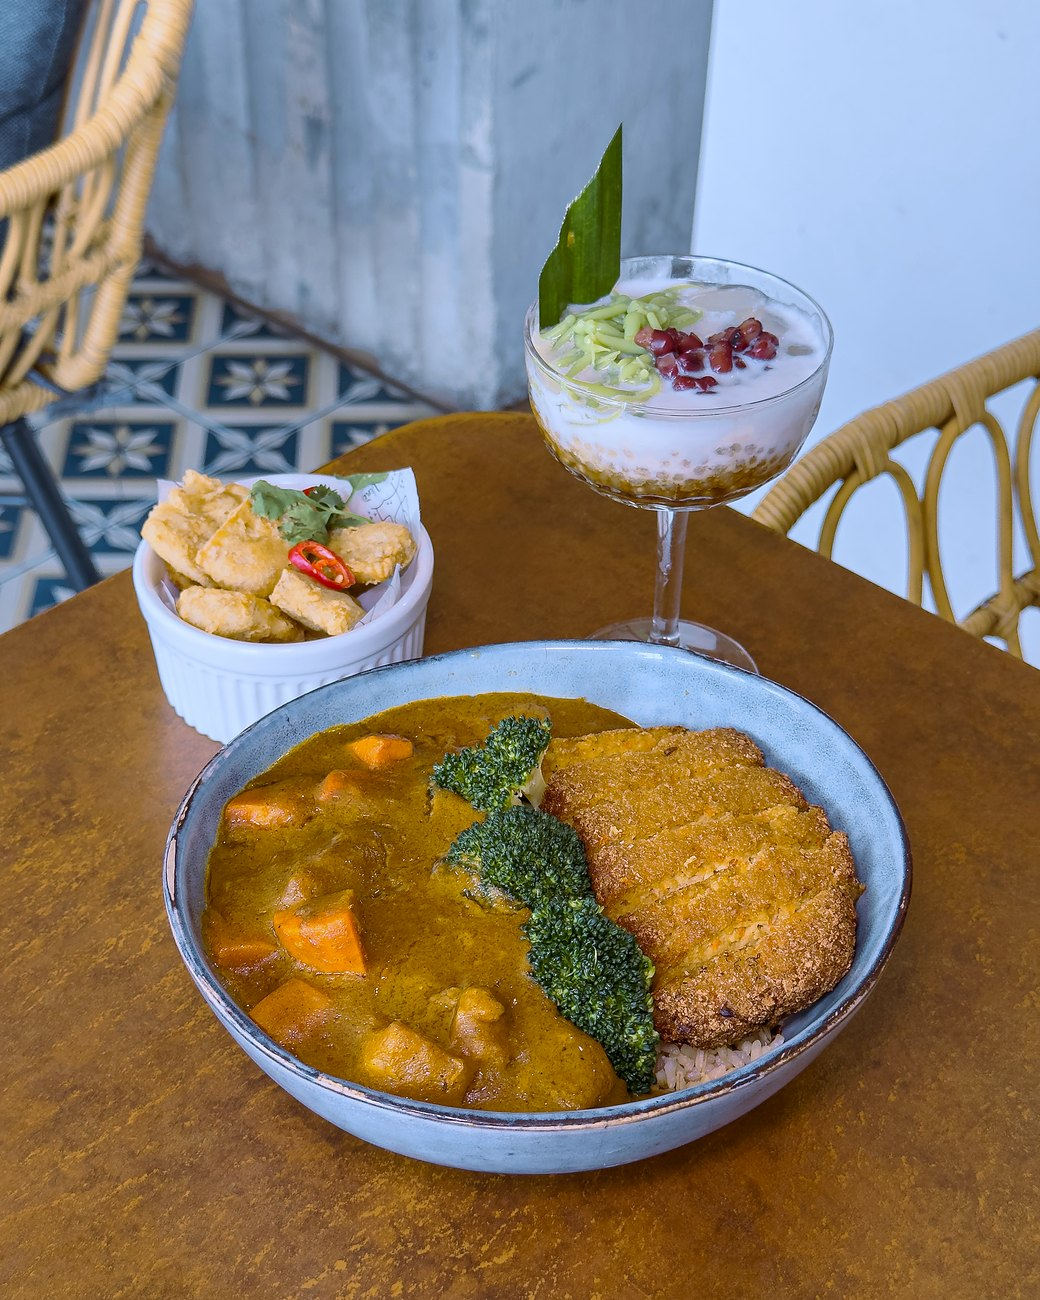
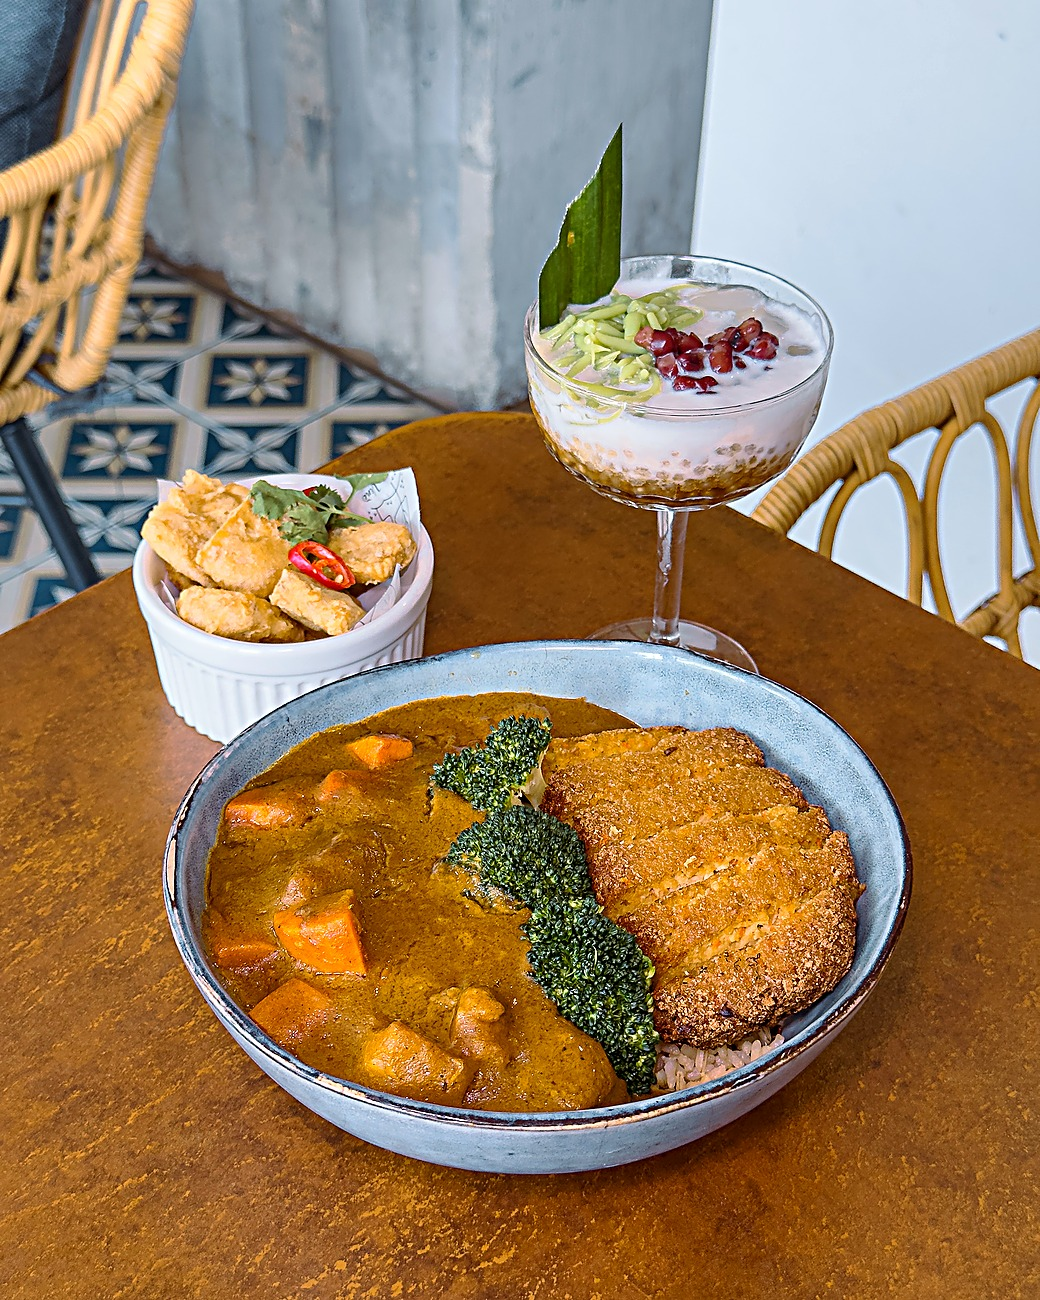
Hero: sharpened full-set Japanese Curry Tofu Katsu; caption fix

diff --git a/index.html b/index.html
@@ -38,7 +38,7 @@
     <p class="lead"><span data-i18n data-zh="本地风味与西式家常料理，道道素食。每天营业，早上 8:30 至晚上 9:30。" data-ms="Hidangan kegemaran tempatan dan makanan Barat yang menyelerakan, semuanya tanpa daging. Dibuka setiap hari, 8:30 pagi hingga 9:30 malam.">Local favourites and Western comfort food, all meat-free. Open daily, 8:30 AM to 9:30 PM.</span></p>
     <div class="ctas"><a class="btn" href="#menu"><span data-i18n data-zh="查看菜单" data-ms="Lihat menu">See the menu</span></a><a class="btn ghost" href="#visit"><span data-i18n data-zh="找到我们" data-ms="Cari kami">Find us</span></a><a class="btn wa" href="https://wa.me/60134144199?text=Hi%20Vine%2C%20I%27d%20like%20to%20make%20a%20reservation." target="_blank" rel="noopener"><svg class="wa-ic" viewBox="0 0 32 32" width="18" height="18" aria-hidden="true" focusable="false"><path fill="currentColor" d="M16 3C8.8 3 3 8.7 3 15.8c0 2.5.7 4.9 2 7L3 29l6.4-2c2 1.1 4.3 1.7 6.6 1.7 7.2 0 13-5.7 13-12.8S23.2 3 16 3zm0 23.4c-2.1 0-4.1-.6-5.9-1.7l-.4-.3-3.8 1.2 1.2-3.7-.3-.4c-1.2-1.8-1.8-3.9-1.8-6 0-5.9 4.9-10.6 10.9-10.6s10.9 4.8 10.9 10.6S22 26.4 16 26.4zm6-7.9c-.3-.2-1.9-1-2.2-1.1-.3-.1-.5-.2-.7.2-.2.3-.8 1-1 1.2-.2.2-.4.2-.7.1-.3-.2-1.4-.5-2.6-1.6-1-.9-1.6-1.9-1.8-2.2-.2-.3 0-.5.1-.7l.5-.6c.2-.2.2-.4.3-.6.1-.2.1-.4 0-.6l-1-2.4c-.3-.6-.5-.5-.7-.5h-.6c-.2 0-.6.1-.9.4-.3.3-1.1 1.1-1.1 2.7s1.2 3.1 1.3 3.3c.2.2 2.3 3.5 5.5 4.9.8.3 1.4.5 1.9.7.8.2 1.5.2 2.1.1.6-.1 1.9-.8 2.2-1.5.3-.7.3-1.4.2-1.5-.1-.2-.3-.3-.6-.4z"/></svg><span data-i18n data-zh="透过 WhatsApp 订位" data-ms="Tempah melalui WhatsApp">Reserve on WhatsApp</span></a></div>
   </div>
-  <div class="hero-img"><figure class="hero-fig"><picture><source media="(max-width:899px)" srcset="images/hero/hero_curry_katsu_mobile.jpg"><img src="images/hero_curry_katsu.jpg" fetchpriority="high" alt="Japanese Curry Brown Rice with Mushroom Katsu" width="1040" height="1300"></picture><figcaption><b data-i18n data-zh="日式咖喱炸菇排糙米饭" data-ms="Nasi Perang Kari Jepun dengan Katsu Cendawan">Japanese Curry Brown Rice with Mushroom Katsu</b><span class="cap-d" data-i18n data-zh="香脆炸菇排配日式咖喱、西兰花、马铃薯和胡萝卜，盖在糙米饭上。" data-ms="Katsu cendawan rangup dengan kari Jepun, brokoli, kentang dan lobak merah atas nasi perang.">Crispy mushroom katsu with Japanese curry, broccoli, potato and carrot over brown rice.</span></figcaption></figure></div>
+  <div class="hero-img"><figure class="hero-fig"><picture><source media="(max-width:899px)" srcset="images/hero/hero_curry_katsu_mobile.jpg"><img src="images/hero_curry_katsu.jpg" fetchpriority="high" alt="Japanese Curry Brown Rice with Tofu Katsu" width="1040" height="1300"></picture><figcaption><b data-i18n data-zh="日式咖喱炸豆腐排糙米饭" data-ms="Nasi Perang Kari Jepun dengan Katsu Tauhu">Japanese Curry Brown Rice with Tofu Katsu</b><span class="cap-d" data-i18n data-zh="自制香脆炸豆腐排配日式咖喱、西兰花、马铃薯和胡萝卜，盖在糙米饭上。" data-ms="Katsu tauhu rangup buatan sendiri dengan kari Jepun, brokoli, kentang dan lobak merah atas nasi perang.">Crispy housemade tofu katsu with Japanese curry, broccoli, potato and carrot over brown rice.</span></figcaption></figure></div>
 </section>
 <section class="about" id="about">
   <div class="about-text">
